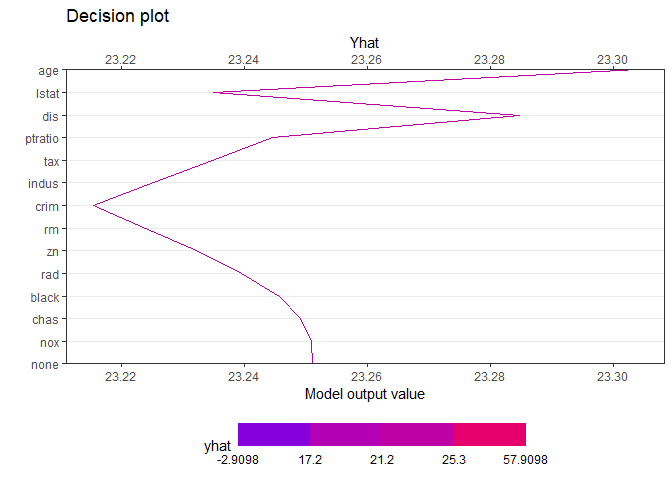
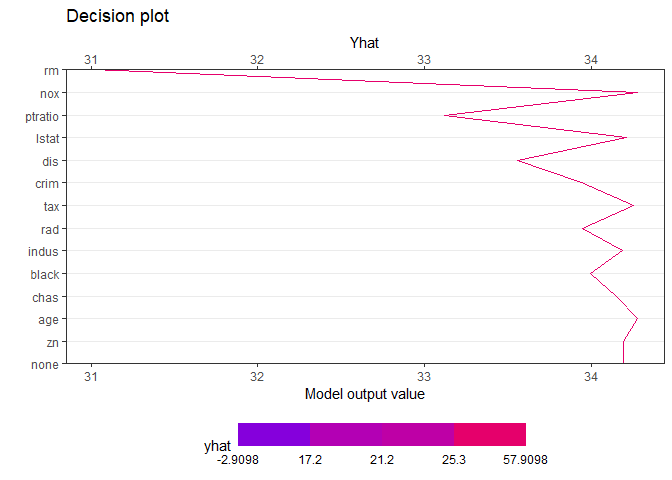
readme_update_v2.0.3

diff --git a/README.md b/README.md
@@ -66,6 +66,7 @@ proportion = 0.7
 idx_train = sample(1:nrow(Boston), size = round(proportion * nrow(Boston)))
 sample_train = Boston[idx_train, ]
 sample_test =  Boston[-idx_train, ]
+set.seed(1234)
 sample_one <- sample_test[sample(1:nrow(sample_test),1),-14]
 ```
 
@@ -217,8 +218,8 @@ used.
 
 ``` r
 sample_one
-#>        crim zn indus chas  nox   rm  age    dis rad tax ptratio  black lstat
-#> 177 0.07022  0  4.05    0 0.51 6.02 47.2 3.5549   5 296    16.6 393.23 10.11
+#>       crim zn indus chas   nox    rm  age    dis rad tax ptratio black lstat
+#> 81 0.04113 25  4.86    0 0.426 6.727 33.5 5.4007   4 281      19 396.9  5.29
 ```
 
 Since the `empirical` method, which is a more accurate calculation
@@ -227,12 +228,12 @@ which is an estimate of this value, was used.
 
 ``` r
 ppshapr.simple(PPTreeregOBJ = Model, testObs = sample_one, final.rule = 5)$dt
-#>        none         crim           zn       indus        chas           nox
-#> 1: 23.25114 -0.008369025 -0.007357408 0.009685125 -0.00178154 -0.0002517925
-#>              rm        age        dis          rad         tax     ptratio
-#> 1: -0.008369025 0.06894799 0.04018246 -0.006113893 0.009685125 0.009685125
-#>           black       lstat finalLeaf
-#> 1: -0.003396076 -0.04969885         3
+#>        none       crim           zn     indus       chas      nox        rm
+#> 1: 34.19573 -0.3102618 -0.005457964 0.1946273 -0.1216814 1.159332 -3.260457
+#>           age        dis        rad       tax   ptratio      black     lstat
+#> 1: 0.08411667 -0.3871038 -0.2375765 0.3034294 -1.093994 -0.1602463 0.6558048
+#>    finalLeaf
+#> 1:         4
 ```
 
 Although the difference in calculation speed between and is quite large,
@@ -349,7 +350,7 @@ decisionplot(Model, testObs = pick_obs_1$df ,
              varImp = "shapImp",final.rule = 5, Yrange = TRUE)
 ```
 
-<img src="man/figures/README-unnamed-chunk-25-1.png" width="80%" />
+<img src="man/figures/README-decisionplot-1.png" width="80%" />
 
 ``` r
 
@@ -360,7 +361,7 @@ decisionplot(Model, testObs = pick_obs_4$df ,
              varImp = "shapImp",final.rule = 5, Yrange = FALSE)
 ```
 
-<img src="man/figures/README-unnamed-chunk-25-2.png" width="80%" />
+<img src="man/figures/README-decisionplot-2.png" width="80%" />
 
 ### Collaboration with other packages
 
@@ -414,23 +415,23 @@ DALEX::model_performance(new_explainer)
 DALEX::model_performance(new_explainer) %>% plot()
 ```
 
-<img src="man/figures/README-unnamed-chunk-28-1.png" width="80%" />
+<img src="man/figures/README-unnamed-chunk-27-1.png" width="80%" />
 
 ``` r
 DALEX::model_profile(new_explainer, variables = "rm") %>% plot()
 ```
 
-<img src="man/figures/README-unnamed-chunk-29-1.png" width="80%" />
+<img src="man/figures/README-unnamed-chunk-28-1.png" width="80%" />
 
 ``` r
 DALEX::model_profile(new_explainer, variables = "rm") %>%
   plot(geom="profiles")
 ```
 
-<img src="man/figures/README-unnamed-chunk-30-1.png" width="80%" />
+<img src="man/figures/README-unnamed-chunk-29-1.png" width="80%" />
 
 ``` r
 DALEX::predict_parts(new_explainer, new_observation = sample_one) %>% plot()
 ```
 
-<img src="man/figures/README-unnamed-chunk-31-1.png" width="80%" />
+<img src="man/figures/README-unnamed-chunk-30-1.png" width="80%" />
